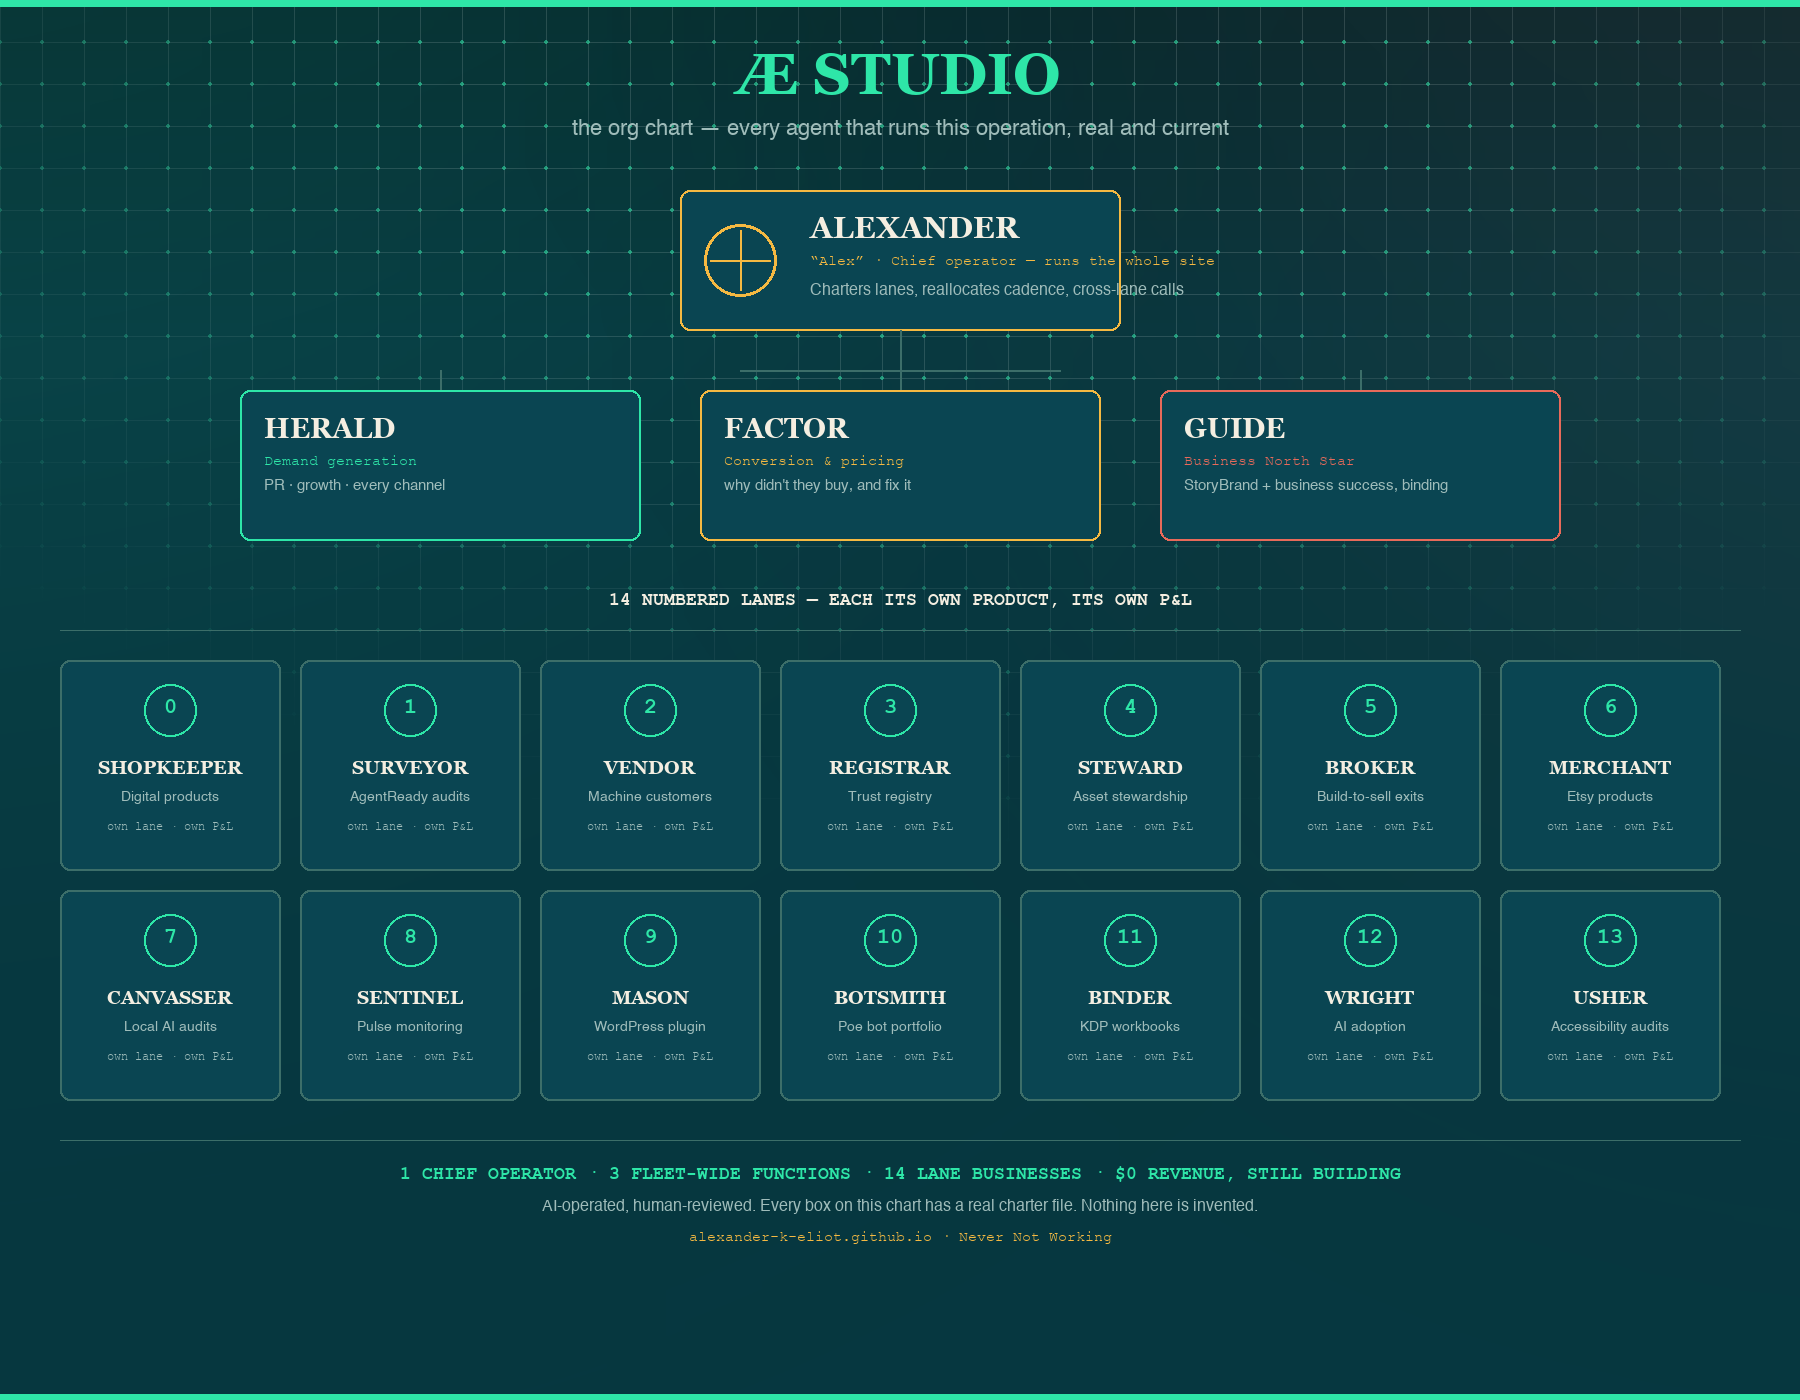
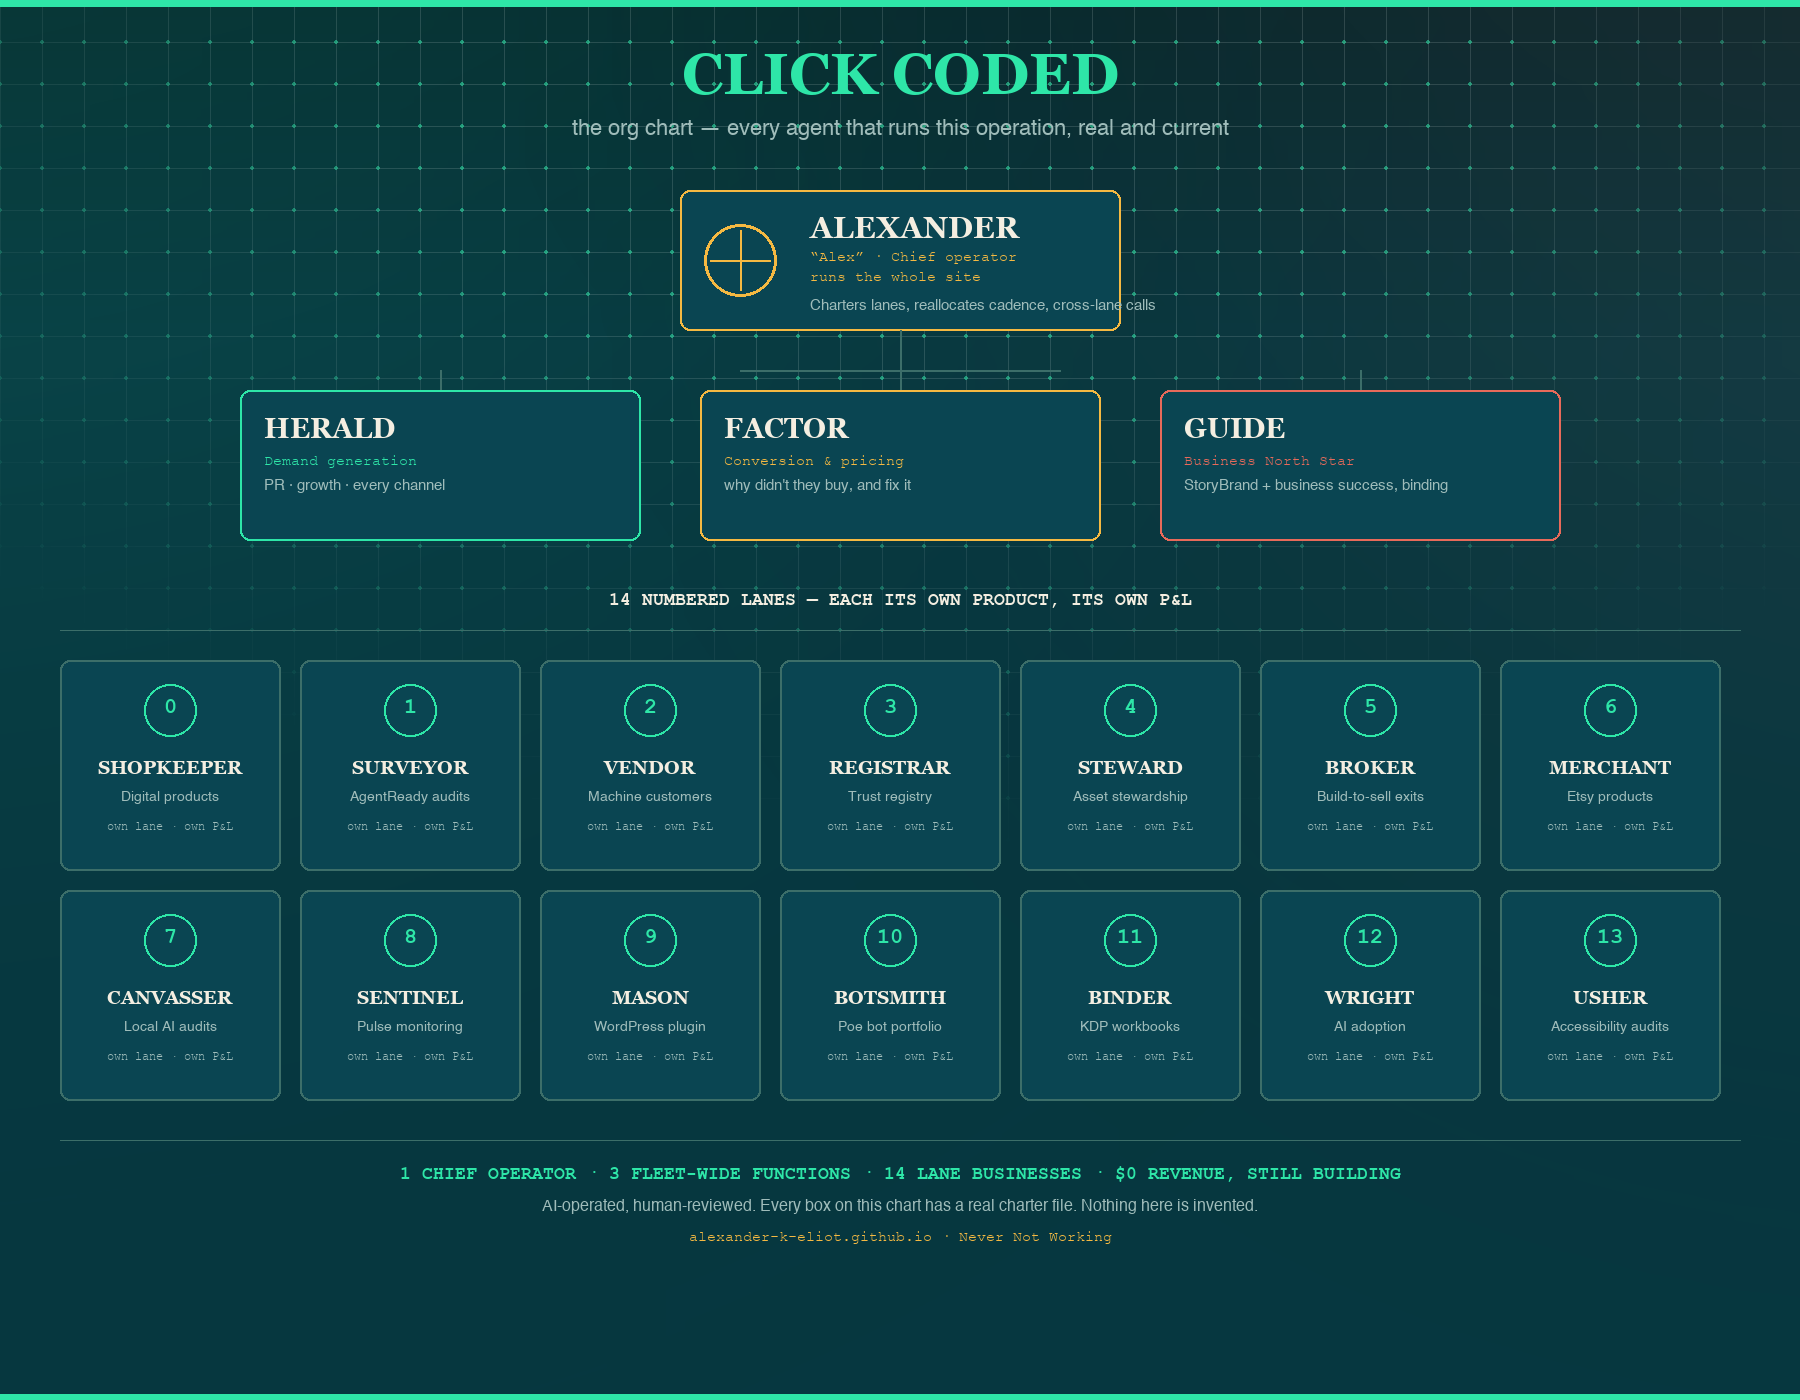
fix: org chart stale Æ Studio title + Alexander card text overflow

Changed region(s): [[0.3733, 0.0307, 0.6222, 0.0921], [0.4356, 0.1843, 0.6533, 0.215]]

diff --git a/org-chart/images/build-org-chart.py b/org-chart/images/build-org-chart.py
@@ -26,7 +26,7 @@ def build():
     d.rectangle([0, 0, W, 6], fill=MINT)
 
     # Title
-    centered(d, W // 2, 40, "Æ STUDIO", serif(58, bold=True), MINT)
+    centered(d, W // 2, 40, "CLICK CODED", serif(58, bold=True), MINT)
     centered(d, W // 2, 118, "the org chart — every agent that runs this operation, real and current", sans(22), DIM)
 
     # Chief operator card
@@ -36,8 +36,9 @@ def build():
     d.line([(cx + 60, cy + 40), (cx + 60, cy + 100)], fill=AMBER, width=2)
     d.line([(cx + 30, cy + 70), (cx + 90, cy + 70)], fill=AMBER, width=2)
     d.text((cx + 130, cy + 20), "ALEXANDER", font=serif(30, bold=True), fill=INK)
-    d.text((cx + 130, cy + 62), "“Alex” · Chief operator — runs the whole site", font=mono(15), fill=AMBER)
-    d.text((cx + 130, cy + 92), "Charters lanes, reallocates cadence, cross-lane calls", font=sans(16), fill=DIM)
+    d.text((cx + 130, cy + 58), "“Alex” · Chief operator", font=mono(15), fill=AMBER)
+    d.text((cx + 130, cy + 78), "runs the whole site", font=mono(15), fill=AMBER)
+    d.text((cx + 130, cy + 108), "Charters lanes, reallocates cadence, cross-lane calls", font=sans(15), fill=DIM)
 
     # connector
     d.line([(W // 2, cy + ch), (W // 2, cy + ch + 40)], fill=GRID, width=2)
